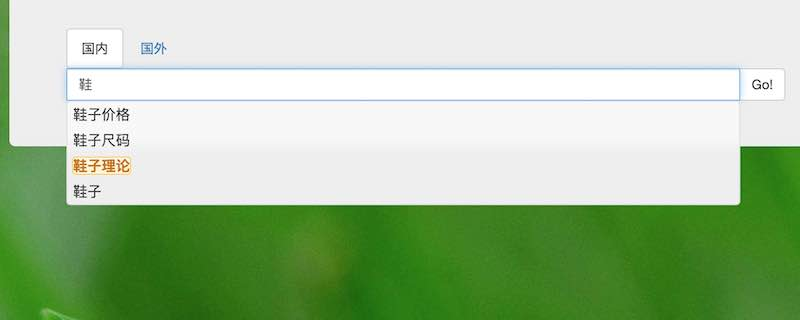
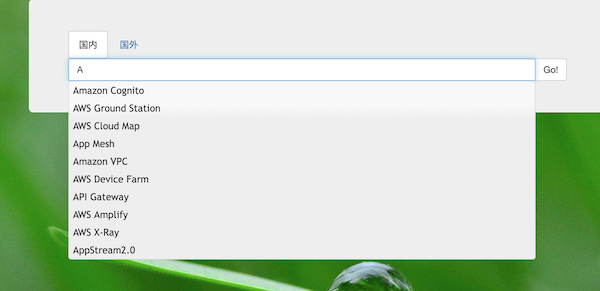
修改 README

diff --git a/web/index.html b/web/index.html
@@ -33,7 +33,7 @@
 
         <div class="col-lg-9">
             <div class="input-group">
-                <input type="text" class="form-control" id="search_kw" maxlength="16" placeholder="Search for...">
+                <input type="text" class="form-control" id="search_kw" maxlength="30" placeholder="Search for AWS product ...">
                 <span class="input-group-btn">
                     <button class="btn btn-default" type="button" id="search_button"  >Go!</button>
                 </span>
@@ -74,9 +74,10 @@
         $.each(data, function(i, item){
             result.push(item.title);
         });
-        // console.log("show : ========== "+result.toString())
+        console.log("show :  "+result.toString())
         $('#search_kw').autocomplete({
             source: result
+
         });
     }
 

diff --git a/README.md b/README.md
@@ -1,7 +1,7 @@
-# AWS 无服务架构 demo项目
+# AWS 无服务架构 -Demo项目
 
 
-##  一、AWS无服务架构
+##  一、AWS无服务架构介绍
 
 ### AWS无服务器计算
 
@@ -54,7 +54,8 @@
 ![image](https://github.com/dikers/serverless/blob/master/doc/picture/8.jpg?raw=true)
 
 
-项目本身的功能比较简单， 通过用户输入的关键字，实时返回查询结果， 并显示在页面上。 [项目演示地址](http://dikers.de)
+项目本身的功能比较简单， 通过用户输入的AWS产品的英文关键字，实时返回查询结果，
+并显示在页面上。 [项目演示地址](http://dikers.de)
 
 
 
@@ -175,7 +176,7 @@ Amazon Route 53 是一种可用性高、可扩展性强的云域名系统 (DNS) 
 
 [托管静态网站 -- 官方教程](https://aws.amazon.com/cn/getting-started/projects/host-static-website/?c_1)
 
-![image](https://d1.awsstatic.com/Projects/v1/AWS_StaticWebsiteHosting_Architecture_4b.da7f28eb4f76da574c98a8b2898af8f5d3150e48.png)
+![image](http://d1.awsstatic.com/Projects/v1/AWS_StaticWebsiteHosting_Architecture_4b.da7f28eb4f76da574c98a8b2898af8f5d3150e48.png)
 
 *   需要创建三个存储桶（s3） 
 
@@ -351,7 +352,7 @@ NAT 网关, 能让外部用户访问到。详细配置见下图：
 AWS CloudFormation
 提供了一种通用语言来描述和预配置云环境中的所有基础设施资源。CloudFormation可以跨所有地区和账户使用简单的文本文件以自动化的安全方式为应用程序需要的所有资源建模并对其进行预配置。
 
-![image](https://d1.awsstatic-china.com/CloudFormation%20Assets/howitworks.c316d3856638c6c9786e49011bad660d57687259.png)
+![image](http://d1.awsstatic-china.com/CloudFormation%20Assets/howitworks.c316d3856638c6c9786e49011bad660d57687259.png)
 
 基础设施及代码 (Infrastructure as Code), 可以代码的方式对基础设施进行管理，可以很方便的自动化构建多种基础环境，方便开发，测试，以及灾后恢复。
 
